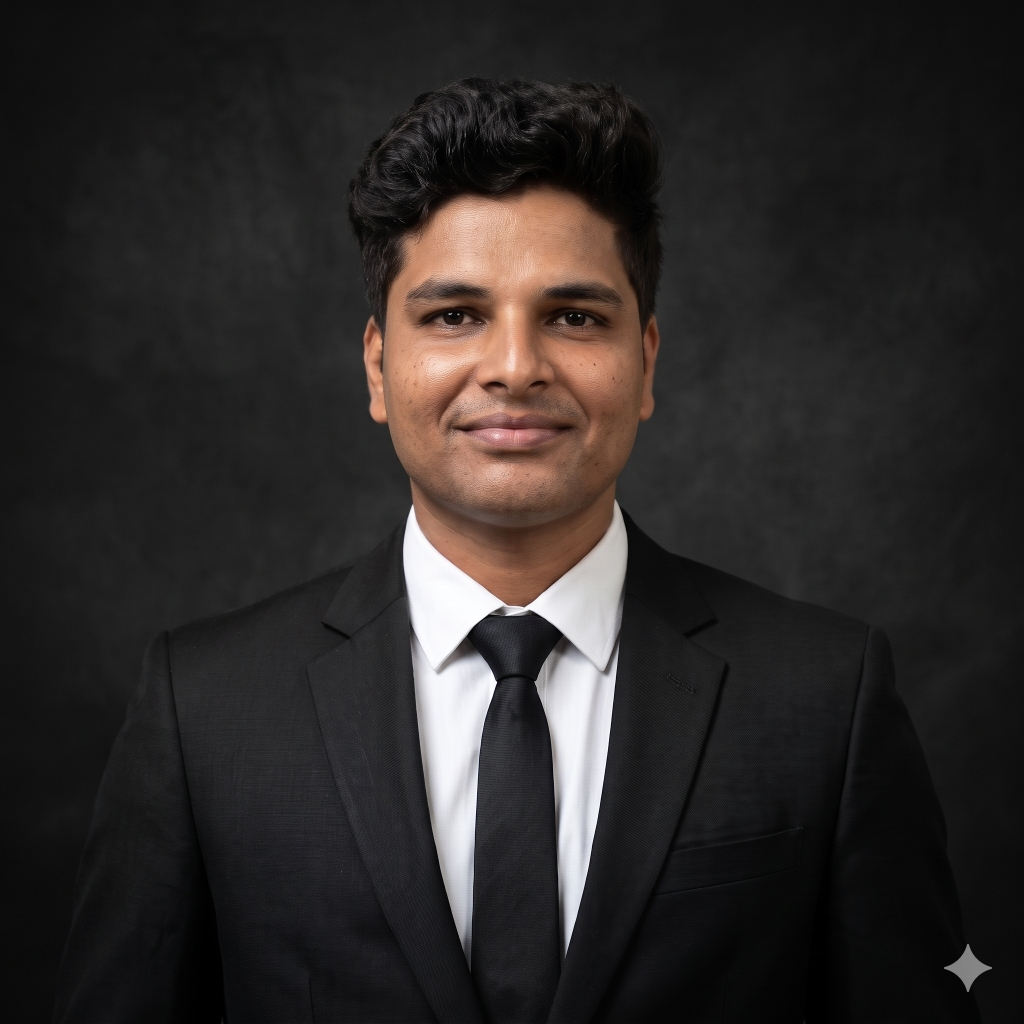
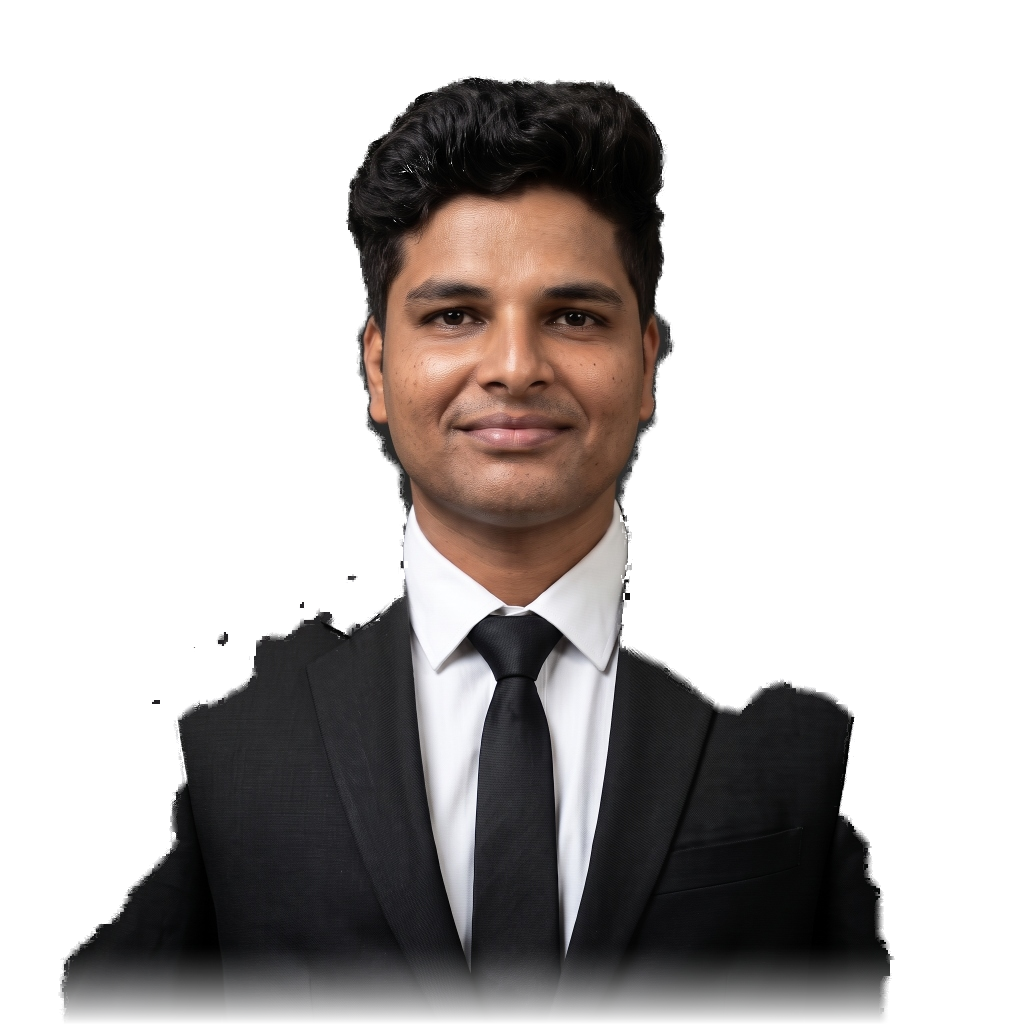
fix(hero): implement clean transparent portrait cutout matching reference composition without rectangular box

diff --git a/src/components/Hero.jsx b/src/components/Hero.jsx
@@ -126,15 +126,9 @@ export default function Hero({ onPreloadComplete }) {
   return (
     <section
       id="hero"
-      className="relative min-h-screen flex items-end justify-center bg-cover bg-center bg-no-repeat overflow-hidden select-none"
-      style={{
-        background: 'radial-gradient(circle at 50% 50%, #1e1e1e 0%, #050505 75%, #000000 100%)',
-      }}
+      className="relative min-h-screen flex items-end justify-center bg-[#000000] overflow-hidden select-none"
     >
-      {/* Subtle backdrop overlay and anti-grain blur */}
-      <div className="absolute inset-0 bg-black/40 backdrop-blur-[2px] pointer-events-none" />
-
-      {/* Layer 1: Balanced Metallic Title & Attached Controls (Behind Portrait) */}
+      {/* Layer 1: Metallic Title & Attached Controls (Positioned Behind Portrait) */}
       <div
         ref={titleContainerRef}
         className="absolute top-[50%] left-1/2 -translate-x-1/2 -translate-y-1/2 z-0 pointer-events-none select-none flex flex-col items-start w-max will-change-transform"
@@ -205,16 +199,22 @@ export default function Hero({ onPreloadComplete }) {
         </div>
       </div>
 
-      {/* Layer 2: Authentic Professional Portrait (Positioned in Front of PORTFOLIO Typography) */}
+      {/* Layer 2: Authentic Professional Portrait Cutout (Positioned in Front of PORTFOLIO Typography) */}
       <div
         ref={personRef}
         className="relative z-10 text-center text-white flex flex-col items-center w-full pointer-events-none translate-y-[100vh] will-change-transform"
       >
-        <div className="relative w-full max-w-[320px] sm:max-w-[380px] md:max-w-[440px] lg:max-w-[480px] flex items-end justify-center">
+        <div
+          className="relative w-full max-w-[340px] sm:max-w-[420px] md:max-w-[500px] lg:max-w-[560px] xl:max-w-[600px] flex items-end justify-center"
+          style={{
+            maskImage: 'linear-gradient(to bottom, black 85%, transparent 100%)',
+            WebkitMaskImage: 'linear-gradient(to bottom, black 85%, transparent 100%)',
+          }}
+        >
           <img
             src="/images/portrait-hero.png"
             alt="Jeevanantham A — AI Engineer"
-            className="w-full h-auto object-contain object-bottom drop-shadow-[0_20px_45px_rgba(0,0,0,0.85)]"
+            className="w-full h-auto object-contain object-bottom"
           />
         </div>
       </div>
